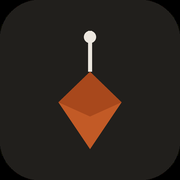
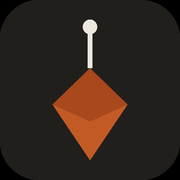
fix(web): símbolo maior no ícone — de 66% para 78% de altura
Eu tinha encolhido o desenho à toa. A escala saiu de uma conta errada:
medi a área segura do maskable pelos CANTOS da caixa do símbolo, mas o
símbolo não é um retângulo cheio — é uma linha fina no eixo central e uma
pipa. Aqueles cantos são vazio, e eu estava protegendo pixel que não
existe.

O que de fato limita são as PONTAS (a bolinha em cima, o bico do bob
embaixo), e elas ficam no centro horizontal, onde qualquer máscara é mais
generosa. Refeita a conta pelos pontos reais, o teto é s=3.53 (80% de
altura); fico em 3.45, com 5px de folga para o Android não raspar o bico
do prumo — que é o que identifica a marca.

Changed region(s): [[0.2778, 0.0833, 0.7222, 0.8889]]

diff --git a/brand/gerar-favicon.py b/brand/gerar-favicon.py
@@ -34,9 +34,13 @@ LADO = 512
 SUPER = 4
 TAMANHOS = [16, 32, 48, 64, 128, 256]
 
-# Mesmo transform do icon.svg: translate(142.9, 87.8) scale(2.9). Mantém o
-# símbolo dentro da área segura do maskable.
-TX, TY, S = 142.9, 87.8, 2.9
+# Mesmo transform do icon.svg: translate(121.45, 55.9) scale(3.45).
+#
+# O que limita a escala são as PONTAS do símbolo (a bolinha em cima, o bico do bob
+# embaixo) — não os cantos da caixa dele, que são vazio. Com s=3.45 a ponta mais
+# distante fica a 200 do centro, dentro do raio seguro de 204.8 (círculo de 80% do
+# maskable). O teto é s=3.53; acima disso o Android corta o bico do prumo.
+TX, TY, S = 121.45, 55.9, 3.45
 
 
 def p(x: float, y: float) -> tuple[float, float]: